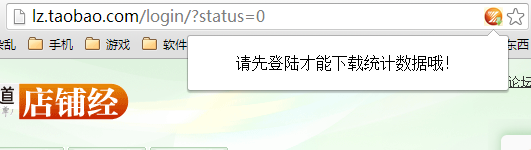
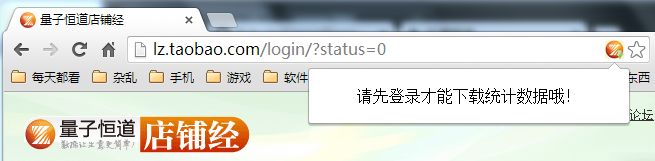
fix type error

diff --git a/popup.html b/popup.html
@@ -7,7 +7,7 @@
     <body>
         <!-- CHROME EXTENSION POPUP -->
         <div id="unlogin">
-            <p>请先登陆才能下载统计数据哦！</p>
+            <p>请先登录才能下载统计数据哦！</p>
         </div>
         <div id="logined">
             <p>淘宝用户名：<span id="user"></span></p>
